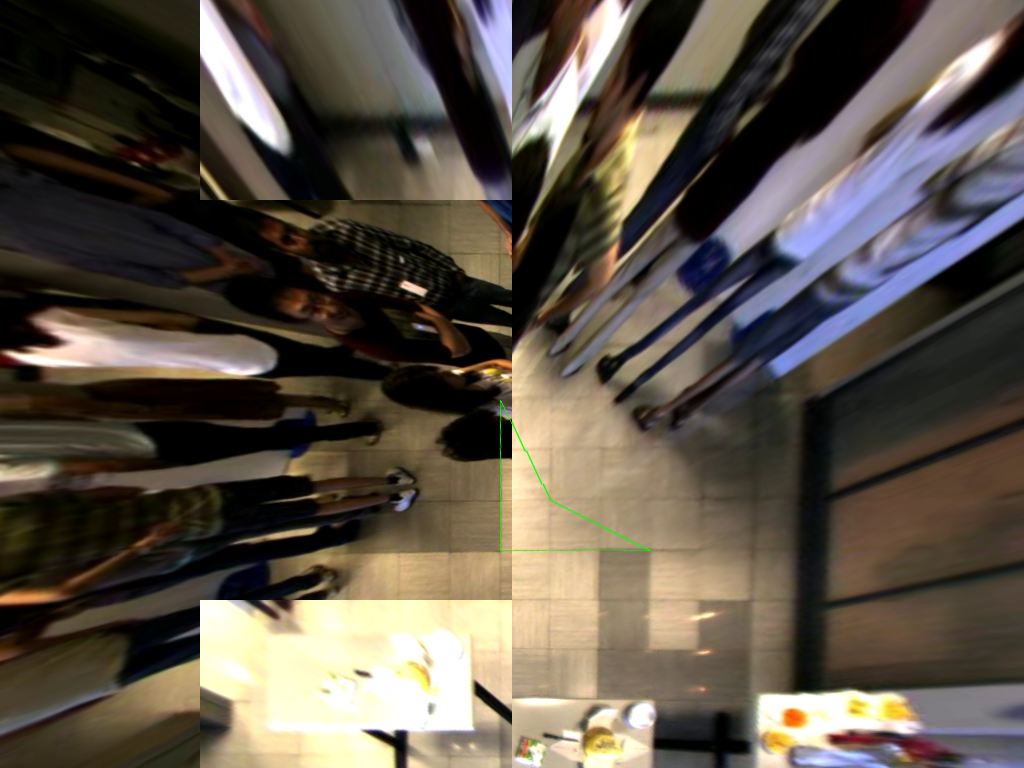
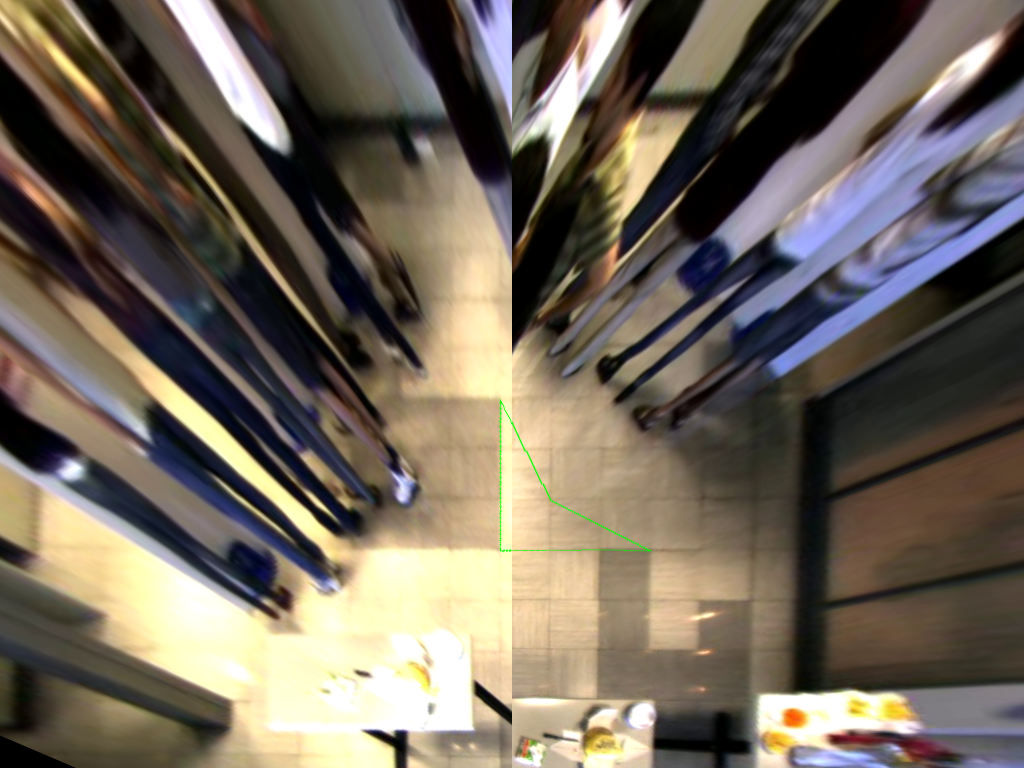
homography on bounding box start

Changed region(s): [[0.0, 0.0, 0.5, 1.0]]

diff --git a/homography/pipeline.py b/homography/pipeline.py
@@ -21,10 +21,13 @@ def main():
     result[:, 512:] = frames[0][:, 512:]
     #result[350:, 250:550] = frames[1][350:, 250:550]
     result[:, :512] = frames[3][:, :512]
-    result[:, :200] = frames[2][:, :200]
-    result[200:600, :512] = frames[2][200:600, :512]
+    #result[:, :200] = frames[2][:, :200]
+    #result[200:600, :512] = frames[2][200:600, :512]
 
     cv2.imwrite("out/stitched.png", result)
+
+def get_boxes(frame):
+    
 
 def get_angles(frame_num):
     frames = []
